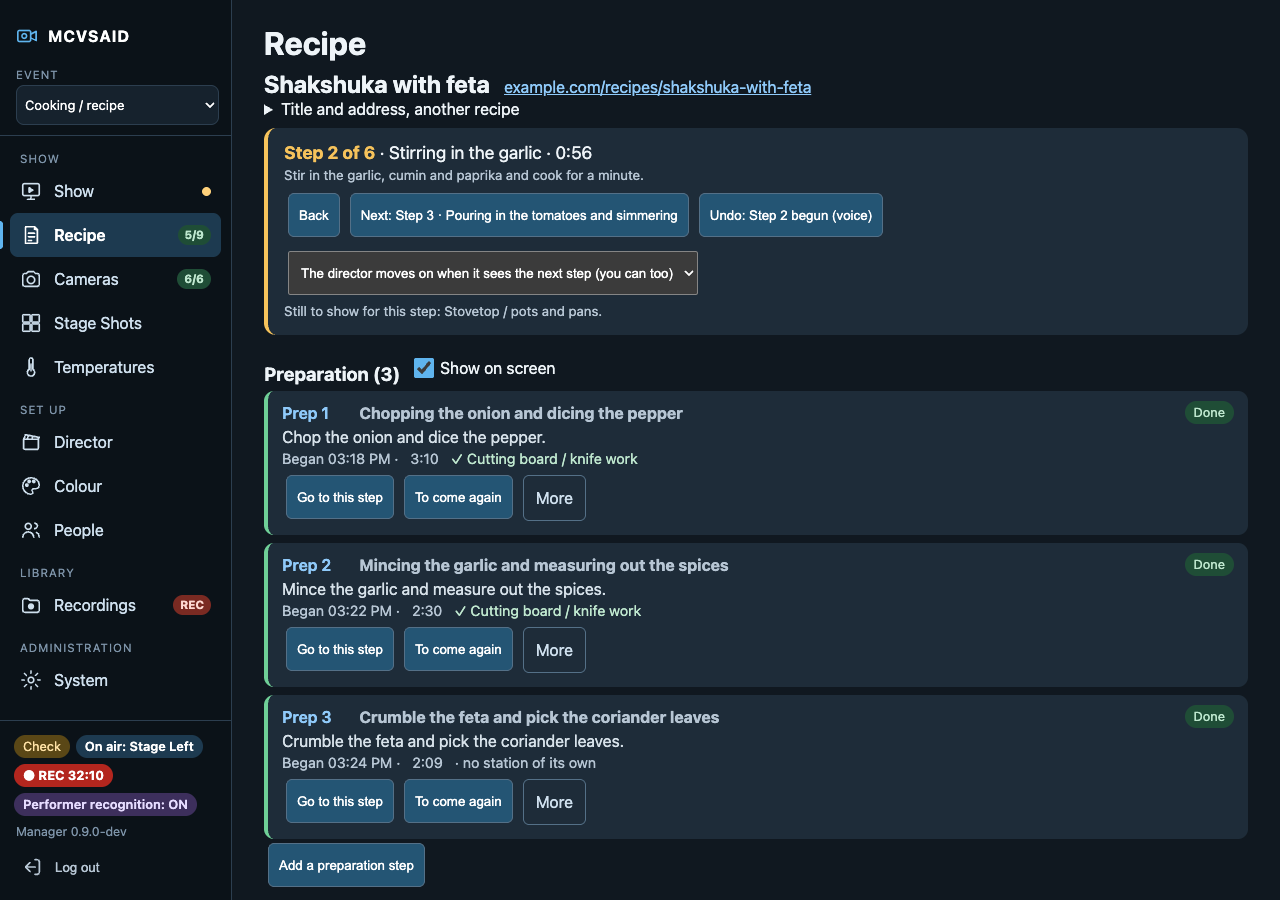
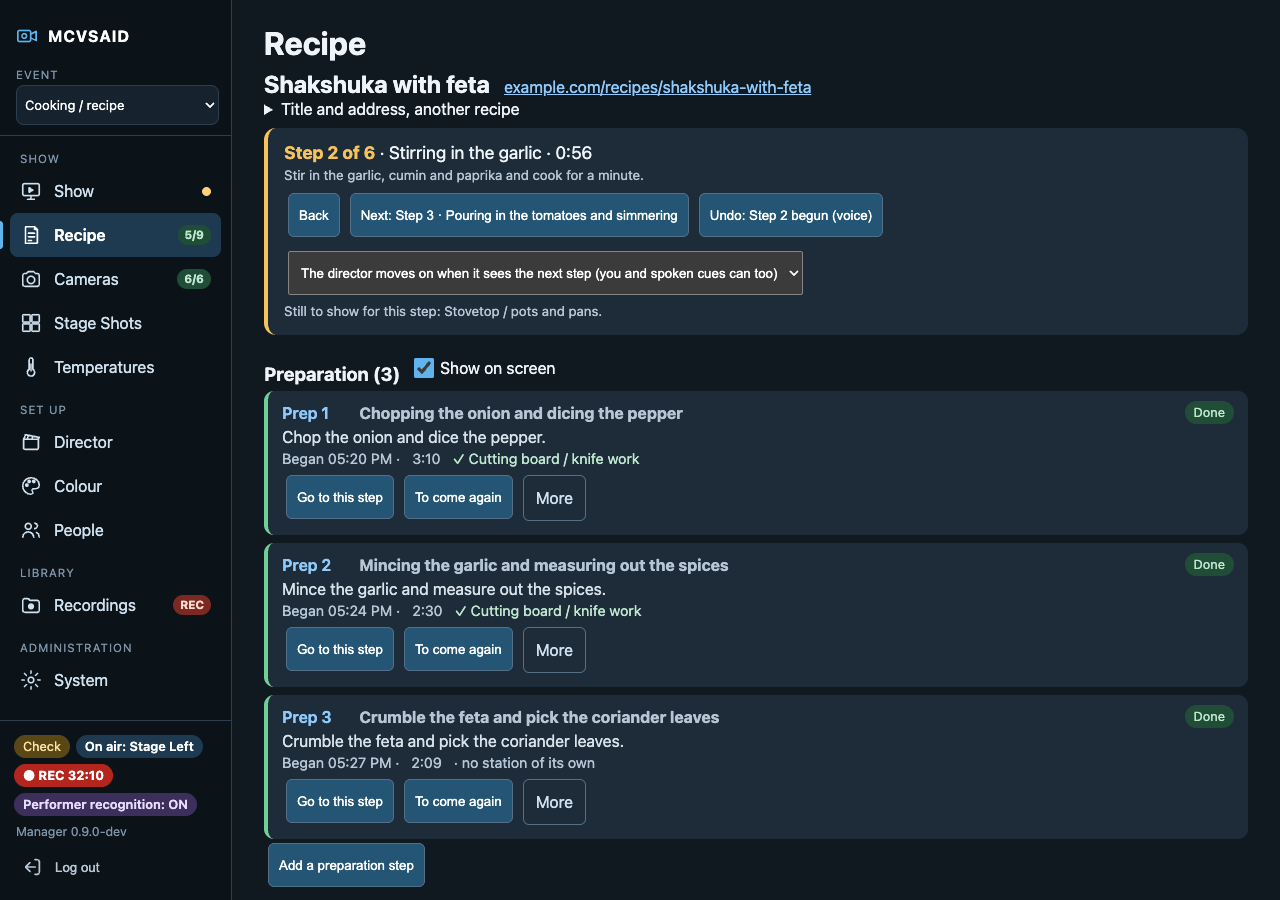
README from mcvsaid 2775c2d (showcase-preview)

diff --git a/README.md b/README.md
@@ -110,7 +110,7 @@ ingredient's line goes on screen while the AI keeps directing the shots; speech 
 
 ![The Recipe page: the step being cooked with Back, Next and Undo, and the preparation done, each step with its time and key shot](docs/screenshots/22-recipe.png)
 
-![A recipe on screen in OBS: the preparation done and folded away, the method with the current step picked out, a QR code to the recipe and the step's caption](docs/screenshots/23-recipe-overlay.png)
+![A recipe on screen in OBS: the preparation done and folded away, the method with the current step picked out, a QR code to the recipe in the other corner and the step's caption](docs/screenshots/23-recipe-overlay.png)
 
 ![Spoken cues on the Recipe page: what the cook was heard saying, and what each phrase did](docs/screenshots/22c-recipe-voice.png)
 
